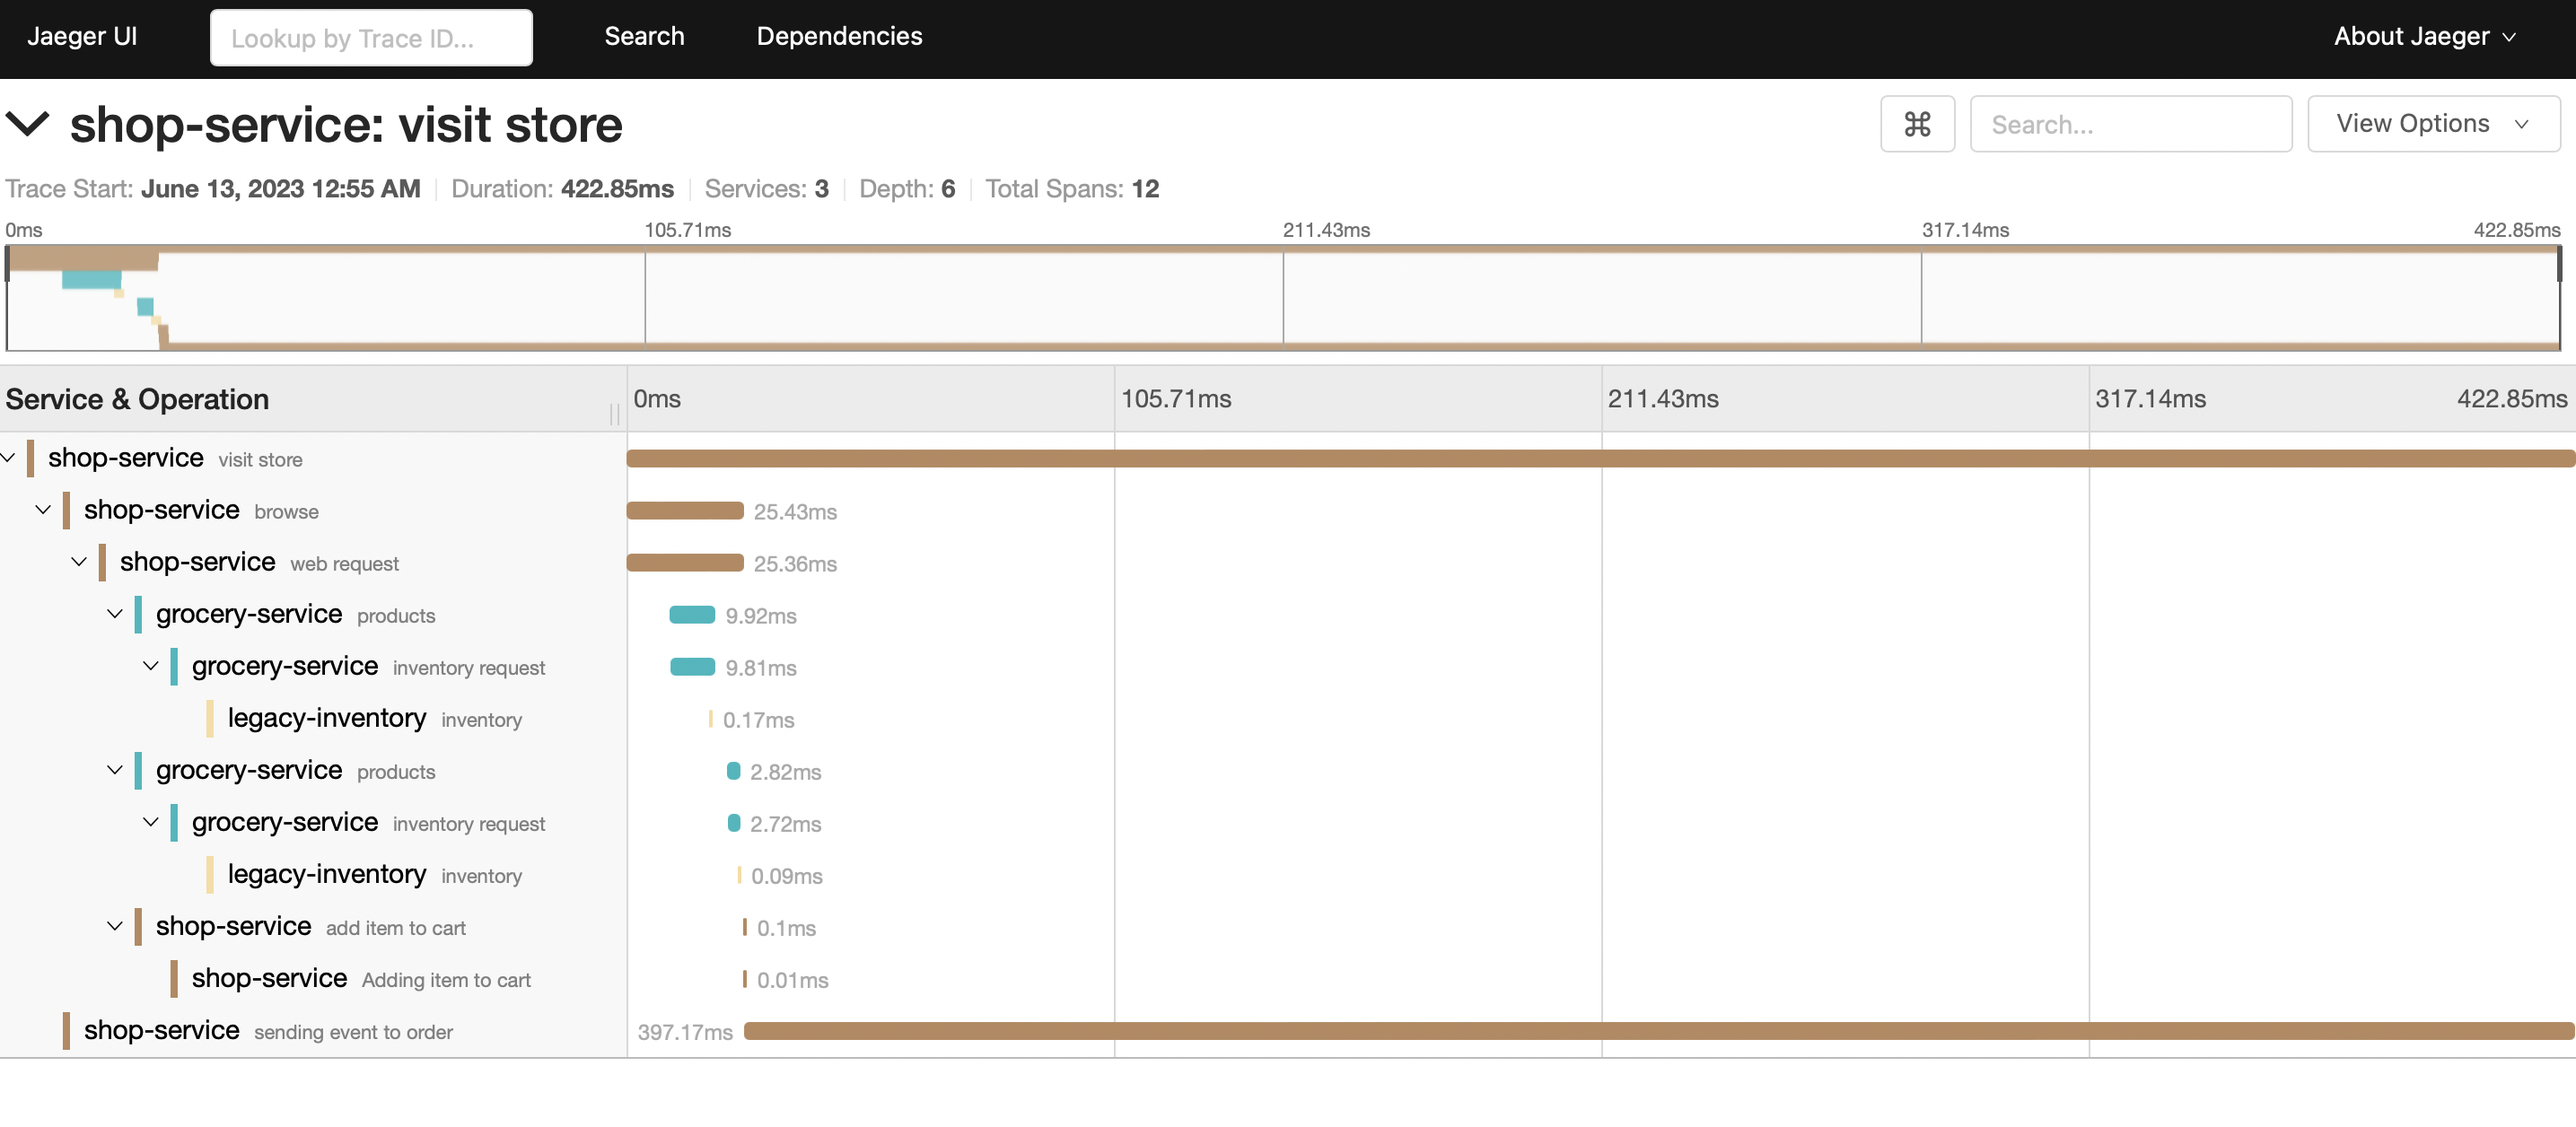
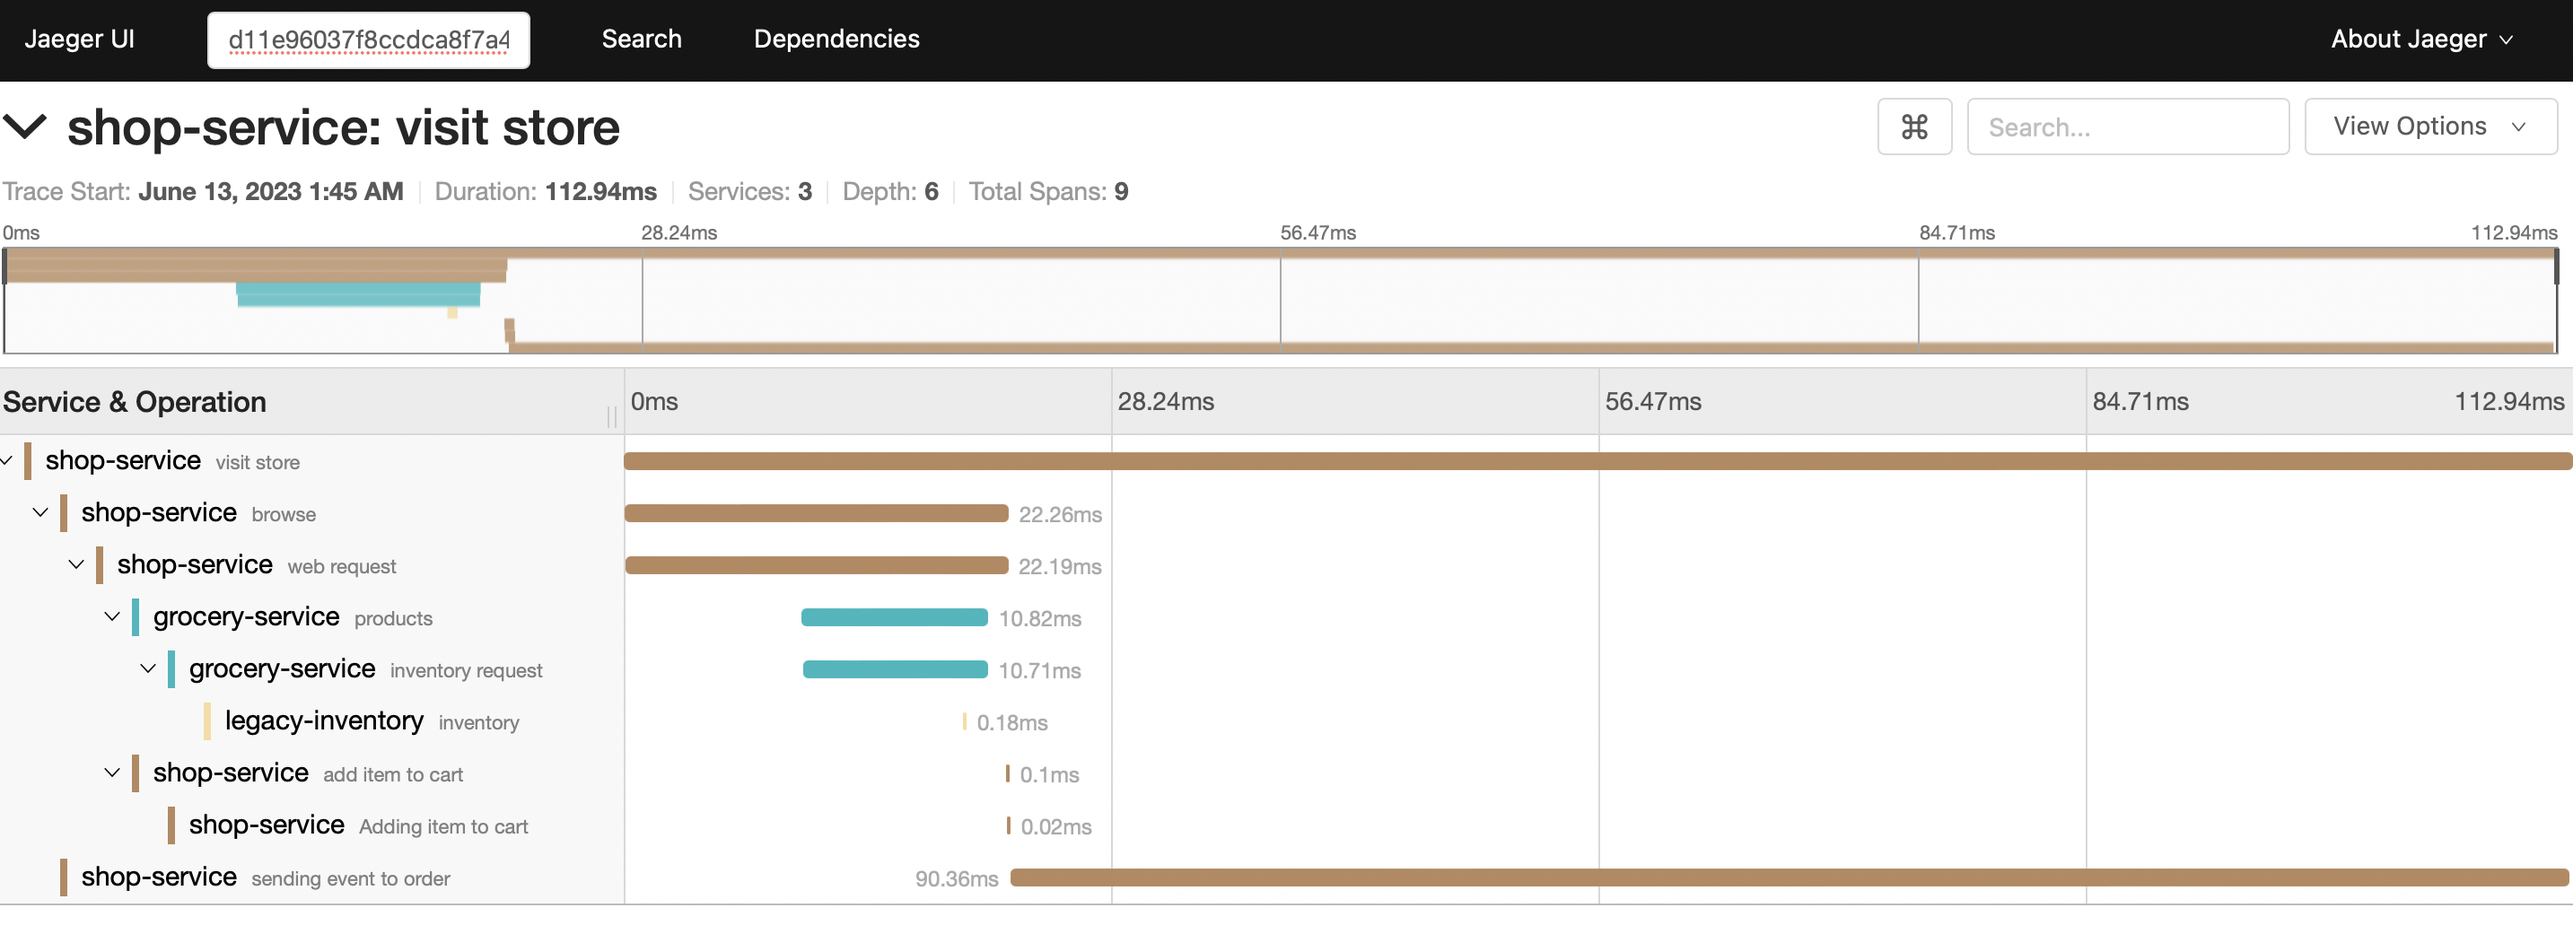
update

diff --git a/shopper.py b/shopper.py
@@ -49,8 +49,6 @@ def browse():
             }
         )
         span.add_event("about to send a request")
-        resp = requests.get(url, headers=headers)
-        print(resp)
         try:
             resp = requests.get(url, headers=headers)
             span.add_event("request sent", attributes={"url": url}, timestamp=0)
@@ -91,7 +89,7 @@ def add_item_to_cart(data):
 @tracer.start_as_current_span("visit store")
 def visit_store():
     data = browse()
-    produce_event(json.dumps(data).encode('utf-8'))
+    #produce_event(json.dumps(data).encode('utf-8'))
     return jsonify(data)
 
 
